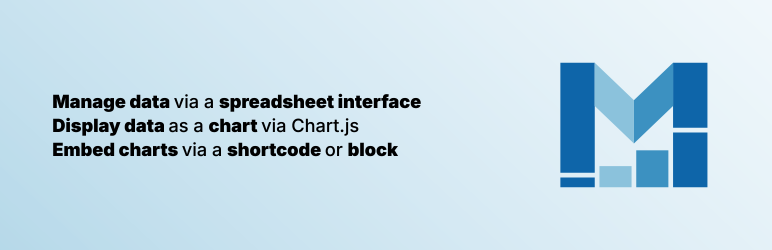
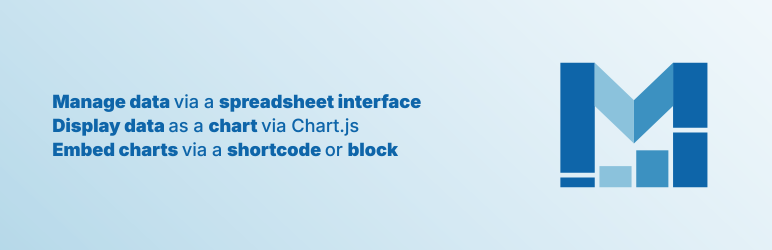
Misc - Asset tweaks - Plus a small fix for an issue the title/subtitle text wrapping had introduced to the Chart Editor

Changed region(s): [[0.0622, 0.476, 0.5285, 0.644], [0.0622, 0.364, 0.5596, 0.448]]

diff --git a/components/js/m-chart-chartjs-helper.min.js b/components/js/m-chart-chartjs-helper.min.js
@@ -1,1 +1,1 @@
-"use strict";function numberFormat(number,locale){return Chart.helpers.formatNumber(number,locale)}function safeNumberFormat(value,locale){const num=Number(value);return Number.isFinite(num)?numberFormat(num,locale):""}function isMChartChart(chart){const opts=chart.options?.plugins?.["m-chart-helper"];return!!opts&&undefined!==opts.labels_pos}function axisName(chart,index){const scaleKey=["x","y"][index];const titleText=scaleKey&&chart.options?.scales?.[scaleKey]?.title?.text;if(titleText){return String(titleText)}const label=chart.data?.labels?.[index];return null==label?"":String(label)}function horizontalLayoutPadding(chart){const padding=chart.options?.layout?.padding;if("number"===typeof padding){return padding*2}if(padding&&"object"===typeof padding){const left=Number(padding.left??padding.x??0);const right=Number(padding.right??padding.x??0);return left+right}return 32}function preprocessBubbleData(data){const pixelMax=31;const pixelMin=1;const pixelRange=pixelMax-pixelMin;let valueRange=0;for(const ds of data.datasets){for(const val of ds.data){const v=Math.abs(val.original??val.r);if(v>valueRange){valueRange=v}}}if(0===valueRange){valueRange=1}for(const ds of data.datasets){const rawData=ds.rawData||[];const isStructured=Array.isArray(rawData[0]);ds.data.forEach((d,i)=>{const trueR=d.original??d.r;d.original=trueR;const rawR=isStructured?rawData[i]&&rawData[i][2]:rawData[i*3+2];d.originalPrefix=rawR&&rawR.prefix?rawR.prefix:"";d.originalSuffix=rawR&&rawR.suffix?rawR.suffix:"";const percentageRadius=Math.sqrt(Math.abs(trueR)/valueRange);d.r=percentageRadius*pixelRange+pixelMin})}return data}function bubbleChartTooltipLabel(item){const chart=item.chart;const locale=chart.options.locale;const lines=[];if(item.raw?.label){lines.push(item.raw.label)}lines.push(axisName(chart,0)+": "+safeNumberFormat(item.parsed.x,locale),axisName(chart,1)+": "+safeNumberFormat(item.parsed.y,locale),axisName(chart,2)+": "+safeNumberFormat(item.raw.original,locale));return lines}function scatterChartTooltipLabel(item){const chart=item.chart;const locale=chart.options.locale;const lines=[];if(item.raw?.label){lines.push(item.raw.label)}lines.push(axisName(chart,0)+": "+safeNumberFormat(item.parsed.x,locale),axisName(chart,1)+": "+safeNumberFormat(item.parsed.y,locale));return lines}function treemapRawEntry(ctxOrItem){const raw=ctxOrItem.raw;if(!raw){return null}return raw._data||raw}function treemapFormatValue(entry,locale){if(!entry){return""}if(null!=entry.text&&""!==entry.text){return entry.text}const value=Number.isFinite(entry.value)?entry.value:Number(entry.value);if(!Number.isFinite(value)){return""}return(entry.prefix||"")+numberFormat(value,locale)+(entry.suffix||"")}function treemapItemText(ctx){if("data"!==ctx.type){return""}const entry=treemapRawEntry(ctx);return entry&&entry.label?String(entry.label):""}function treemapTooltipLabel(item){const locale=item.chart.options.locale;const entry=treemapRawEntry(item);const label=entry&&entry.label?String(entry.label):"";const formatted=treemapFormatValue(entry,locale);if(label&&formatted){return label+": "+formatted}return formatted||label}function chartTooltipLabel(item){const chart=item.chart;const type=chart.config.type;const labelsPos=chart.options.plugins?.["m-chart-helper"]?.labels_pos??"";const locale=chart.options.locale;const datasetLabel=item.dataset.label;if(null==item.raw){return null}let name="";if("both"===labelsPos){if("bar"===type){name=datasetLabel||""}else if("polarArea"===type){const category=chart.data.labels[item.dataIndex];name=undefined!==datasetLabel&&category!==datasetLabel?String(category)+datasetLabel:String(category)}else{name=undefined!==datasetLabel?datasetLabel:item.label}}else if(undefined!==datasetLabel&&""!==datasetLabel){name=datasetLabel}const prefix=name?name+": ":"";const raw=item.dataset.rawData&&item.dataset.rawData[item.dataIndex];let rawValue;if(raw&&null!==raw.value){rawValue=(raw.prefix||"")+numberFormat(raw.value,locale)+(raw.suffix||"")}else if(raw&&raw.text){rawValue=raw.text}else{rawValue=numberFormat(item.raw,locale)}return prefix+rawValue}function computeBoxplotViolinYBounds(data){let dataMin=Infinity;let dataMax=-Infinity;for(const dataset of data.datasets??[]){for(const row of dataset.data??[]){if(!Array.isArray(row)){continue}for(const value of row){const num=Number(value);if(Number.isFinite(num)){if(num<dataMin){dataMin=num}if(num>dataMax){dataMax=num}}}}}if(!Number.isFinite(dataMin)||!Number.isFinite(dataMax)){return null}const range=dataMax-dataMin;if(0===range){return null}const grace=range*.05;return{min:dataMin-grace,max:dataMax+grace}}function wrapPluginText(chart,key,maxWidth,originalProp){const opt=chart.options.plugins?.[key];if(!opt||false===opt.display){return}if(!chart[originalProp]){chart[originalProp]=Array.isArray(opt.text)?opt.text.join(" "):opt.text||""}const original=chart[originalProp];if(!original){return}const defaultSize="title"===key?21:18;const fontSize=opt.font?.size||defaultSize;const family=opt.font?.family||window.Chart&&window.Chart.defaults?.font?.family||"sans-serif";const weight=opt.font?.weight||"";chart.ctx.save();chart.ctx.font=(weight?weight+" ":"")+fontSize+"px "+family;if(chart.ctx.measureText(original).width<=maxWidth){chart.options.plugins[key].text=original;chart.ctx.restore();return}const words=original.split(/\s+/).filter(Boolean);const lines=[];let line="";for(const word of words){const trial=line?line+" "+word:word;if(chart.ctx.measureText(trial).width<=maxWidth){line=trial}else{if(line){lines.push(line)}line=word}}if(line){lines.push(line)}chart.options.plugins[key].text=lines.length>1?lines:original;chart.ctx.restore()}function wireTreemap(chart){const ds=chart.data.datasets[0];const locale=chart.options.locale;if(ds&&ds.mChartTreemapHierarchical){const topColors=ds.mChartTopGroupColors||{};const topRgb=ds.mChartTopGroupRgb||{};const topField=ds.mChartTopGroupField;const groups=ds.groups||[];const leafLevel=Math.max(0,groups.length-1);const groupBaseAlpha=.06;const groupStepPerLevel=.06;const hoverAlphaBump=.06;const leafHoverBump=.18;const colorFor=(raw,active)=>{const topId=0===raw.l?raw.g:raw._data&&raw._data[topField];const rgb=topRgb[topId];if(!rgb){return topColors[topId]||"rgba(160,160,160,0.5)"}if(raw.l<leafLevel){const restAlpha=groupBaseAlpha+raw.l*groupStepPerLevel;const alpha=active?Math.min(1,restAlpha+hoverAlphaBump):restAlpha;return`rgba(${rgb.red}, ${rgb.green}, ${rgb.blue}, ${alpha.toFixed(3)})`}const denom=raw.gs||raw.s||raw.v||1;const ratio=raw.v/denom;const baseAlpha=Math.max(.35,Math.min(1,ratio+.35));const finalA=active?Math.min(1,baseAlpha+leafHoverBump):baseAlpha;return`rgba(${rgb.red}, ${rgb.green}, ${rgb.blue}, ${finalA.toFixed(3)})`};ds.backgroundColor=ctx=>{if("data"!==ctx.type){return"transparent"}return colorFor(ctx.raw,false)};ds.hoverBackgroundColor=ctx=>{if("data"!==ctx.type){return"transparent"}return colorFor(ctx.raw,true)};const datasetPrefix=ds.mChartDatasetPrefix||"";const datasetSuffix=ds.mChartDatasetSuffix||"";const formatWithAffixes=raw=>{const isLeaf=raw.l>=leafLevel;const leafRaw=isLeaf?raw._data||{}:null;const prefix=isLeaf?leafRaw.prefix||datasetPrefix:datasetPrefix;const suffix=isLeaf?leafRaw.suffix||datasetSuffix:datasetSuffix;return prefix+numberFormat(raw.v,locale)+suffix};ds.captions=ds.captions||{};ds.captions.formatter=ctx=>{if("data"!==ctx.type||ctx.raw.l>=leafLevel){return""}return ctx.raw.g+": "+formatWithAffixes(ctx.raw)};ds.labels=ds.labels||{};ds.labels.formatter=ctx=>{if("data"!==ctx.type||ctx.raw.l<leafLevel){return""}return String(ctx.raw.g)};chart.options.plugins.tooltip.callbacks={title:()=>"",label:item=>String(item.raw.g)+": "+formatWithAffixes(item.raw)};return}if(ds&&Array.isArray(ds.mChartColors)){const colors=ds.mChartColors;ds.backgroundColor=ctx=>{if("data"!==ctx.type){return"transparent"}return colors[ctx.dataIndex]||colors[0]}}if(ds){ds.labels=ds.labels||{};ds.labels.formatter=ctx=>treemapItemText(ctx)}chart.options.plugins.tooltip.callbacks={title:()=>"",label:item=>treemapTooltipLabel(item)}}function wireBoxplotViolin(chart){const locale=chart.options.locale;const fmtForItem=(item,value)=>{if(value===null||value===undefined||!Number.isFinite(value)){return""}const itemDs=item&&item.dataset?item.dataset:{};const prefix=itemDs.mChartDatasetPrefix||"";const suffix=itemDs.mChartDatasetSuffix||"";return prefix+numberFormat(value,locale)+suffix};chart.options.plugins.tooltip.callbacks={title:items=>items&&items.length&&items[0].label?String(items[0].label):"",label:item=>{const fv=item.formattedValue;const stats=fv&&"object"===typeof fv&&fv.raw?fv.raw:item.parsed||{};const lines=[];if(item.dataset&&item.dataset.label){lines.push(String(item.dataset.label))}lines.push("Min: "+fmtForItem(item,stats.min));lines.push("Q1: "+fmtForItem(item,stats.q1));lines.push("Median: "+fmtForItem(item,stats.median));lines.push("Q3: "+fmtForItem(item,stats.q3));lines.push("Max: "+fmtForItem(item,stats.max));const outliers=Array.isArray(stats.outliers)?stats.outliers.length:0;if(outliers>0){lines.push("+ "+outliers+" outlier"+(1===outliers?"":"s"))}return lines}}}const MChartHelper={id:"m-chart-helper",beforeLayout(chart){if(!isMChartChart(chart)){return}if(!chart.ctx||!chart.width){return}const maxWidth=chart.width-horizontalLayoutPadding(chart);wrapPluginText(chart,"title",maxWidth,"$mchartTitleOriginal");wrapPluginText(chart,"subtitle",maxWidth,"$mchartSubtitleOriginal")},beforeUpdate(chart){if(!isMChartChart(chart)){return}const type=chart.config.type;if("bubble"===type){if(chart.$mchartBubbleData!==chart.config.data){preprocessBubbleData(chart.config.data);chart.$mchartBubbleData=chart.config.data}chart.options.plugins.tooltip.callbacks={title:items=>items[0]?.dataset?.label??"",label:item=>bubbleChartTooltipLabel(item)}}else if("scatter"===type){chart.options.plugins.tooltip.callbacks={title:items=>items[0]?.dataset?.label??"",label:item=>scatterChartTooltipLabel(item)}}else if("treemap"===type){wireTreemap(chart);return}else if("boxplot"===type||"violin"===type){wireBoxplotViolin(chart);return}else{chart.options.plugins.tooltip.callbacks={label:item=>chartTooltipLabel(item)}}chart.options.plugins.datalabels.formatter=function(label,context){const locale=chart.options.locale;const rawData=context.dataset.rawData;const dataIndex=context.dataIndex;if(null===label){return label}if("bubble"===type){const prefix=label.originalPrefix||"";const suffix=label.originalSuffix||"";const value=safeNumberFormat(label.original,locale);return value?prefix+value+suffix:""}if("scatter"===type){const rawEntry=rawData&&rawData[dataIndex];let rawY;if(Array.isArray(rawEntry)){rawY=rawEntry[1]}else{rawY=rawData&&rawData[dataIndex*2+1]}if(rawY&&null!==rawY.value){return(rawY.prefix||"")+numberFormat(rawY.value,locale)+(rawY.suffix||"")}if(rawY&&rawY.text){return rawY.text}return safeNumberFormat(label.y,locale)}const raw=rawData&&rawData[dataIndex];if(raw&&null!==raw.value){return(raw.prefix||"")+numberFormat(raw.value,locale)+(raw.suffix||"")}if(raw&&raw.text){return raw.text}if(Number.isFinite(Number(label))){return numberFormat(label,locale)}return label}},afterDataLimits(chart,args){if(!isMChartChart(chart)){return}const type=chart.config.type;if("boxplot"!==type&&"violin"!==type){return}if(!chart.options.plugins?.mchart?.constrain_y_axis){return}if("y"!==args.scale.axis){return}const bounds=computeBoxplotViolinYBounds(chart.config.data);if(!bounds){return}args.scale.min=bounds.min;args.scale.max=bounds.max},afterDraw(chart){if(!isMChartChart(chart)){return}const opts=chart.options.plugins?.mchart;if(!opts?.include_source||!opts?.source){chart.$mchartSourceBounds=null;return}const ctx=chart.ctx;const text=String(opts.source);const useOverride=!!opts.overrideFont;const overrideFont=opts.font||{};const position=opts.position||{};const defaultFamily=window.Chart&&window.Chart.defaults?.font?.family||"sans-serif";const defaultColor=window.Chart&&window.Chart.defaults?.color||"#666666";const family=useOverride&&overrideFont.family?overrideFont.family:defaultFamily;const size=useOverride&&overrideFont.size?Number(overrideFont.size):12;const weight=useOverride&&overrideFont.weight?overrideFont.weight:"normal";const style=useOverride&&overrideFont.style?overrideFont.style:"normal";const color=useOverride&&overrideFont.color?overrideFont.color:defaultColor;ctx.save();ctx.font=`${style} ${weight} ${size}px ${family}`;ctx.fillStyle=color;ctx.textAlign="left";ctx.textBaseline="top";const metrics=ctx.measureText(text);const blockW=metrics.width;const blockH=size;const xKey=position.x||"left";const yKey=position.y||"bottom";const xUnits=position.xOffsetUnits||position.units||"pixels";const yUnits=position.yOffsetUnits||position.units||"pixels";const xRaw=position.xOffset===undefined||position.xOffset===null||position.xOffset===""?12:Number(position.xOffset);const yRaw=position.yOffset===undefined||position.yOffset===null||position.yOffset===""?12:Number(position.yOffset);const xOffset="percent"===xUnits?chart.width*(xRaw/100):xRaw;const yOffset="percent"===yUnits?chart.height*(yRaw/100):yRaw;let drawX;if("right"===xKey){drawX=chart.width-blockW-xOffset}else if("center"===xKey){drawX=(chart.width-blockW)/2}else{drawX=xOffset}let drawY;if("top"===yKey){drawY=yOffset}else if("center"===yKey){drawY=(chart.height-blockH)/2}else{drawY=chart.height-blockH-yOffset}ctx.fillText(text,drawX,drawY);chart.$mchartSourceBounds={left:drawX-2,right:drawX+blockW+2,top:drawY-2,bottom:drawY+blockH+2};ctx.restore()},afterEvent(chart,args){if(!isMChartChart(chart)){return}const opts=chart.options.plugins?.mchart;const bounds=chart.$mchartSourceBounds;if(!opts?.include_source||!opts?.source||!opts?.source_url||!bounds){if(chart.canvas&&"pointer"===chart.canvas.style.cursor){chart.canvas.style.cursor=""}return}const e=args.event;if(!e){return}if("mouseout"===e.type){if(chart.canvas&&"pointer"===chart.canvas.style.cursor){chart.canvas.style.cursor=""}return}if("number"!==typeof e.x||"number"!==typeof e.y){return}const inside=e.x>=bounds.left&&e.x<=bounds.right&&e.y>=bounds.top&&e.y<=bounds.bottom;if("mousemove"===e.type){chart.canvas.style.cursor=inside?"pointer":""}else if("click"===e.type&&inside){const opened=window.open(opts.source_url,"_blank","noopener,noreferrer");if(opened){opened.opener=null}}}};window.MChartHelper=MChartHelper;
+"use strict";function numberFormat(number,locale){return Chart.helpers.formatNumber(number,locale)}function safeNumberFormat(value,locale){const num=Number(value);return Number.isFinite(num)?numberFormat(num,locale):""}function isMChartChart(chart){const opts=chart.options?.plugins?.["m-chart-helper"];return!!opts&&undefined!==opts.labels_pos}function axisName(chart,index){const scaleKey=["x","y"][index];const titleText=scaleKey&&chart.options?.scales?.[scaleKey]?.title?.text;if(titleText){return String(titleText)}const label=chart.data?.labels?.[index];return null==label?"":String(label)}function horizontalLayoutPadding(chart){const padding=chart.options?.layout?.padding;if("number"===typeof padding){return padding*2}if(padding&&"object"===typeof padding){const left=Number(padding.left??padding.x??0);const right=Number(padding.right??padding.x??0);return left+right}return 32}function preprocessBubbleData(data){const pixelMax=31;const pixelMin=1;const pixelRange=pixelMax-pixelMin;let valueRange=0;for(const ds of data.datasets){for(const val of ds.data){const v=Math.abs(val.original??val.r);if(v>valueRange){valueRange=v}}}if(0===valueRange){valueRange=1}for(const ds of data.datasets){const rawData=ds.rawData||[];const isStructured=Array.isArray(rawData[0]);ds.data.forEach((d,i)=>{const trueR=d.original??d.r;d.original=trueR;const rawR=isStructured?rawData[i]&&rawData[i][2]:rawData[i*3+2];d.originalPrefix=rawR&&rawR.prefix?rawR.prefix:"";d.originalSuffix=rawR&&rawR.suffix?rawR.suffix:"";const percentageRadius=Math.sqrt(Math.abs(trueR)/valueRange);d.r=percentageRadius*pixelRange+pixelMin})}return data}function bubbleChartTooltipLabel(item){const chart=item.chart;const locale=chart.options.locale;const lines=[];if(item.raw?.label){lines.push(item.raw.label)}lines.push(axisName(chart,0)+": "+safeNumberFormat(item.parsed.x,locale),axisName(chart,1)+": "+safeNumberFormat(item.parsed.y,locale),axisName(chart,2)+": "+safeNumberFormat(item.raw.original,locale));return lines}function scatterChartTooltipLabel(item){const chart=item.chart;const locale=chart.options.locale;const lines=[];if(item.raw?.label){lines.push(item.raw.label)}lines.push(axisName(chart,0)+": "+safeNumberFormat(item.parsed.x,locale),axisName(chart,1)+": "+safeNumberFormat(item.parsed.y,locale));return lines}function treemapRawEntry(ctxOrItem){const raw=ctxOrItem.raw;if(!raw){return null}return raw._data||raw}function treemapFormatValue(entry,locale){if(!entry){return""}if(null!=entry.text&&""!==entry.text){return entry.text}const value=Number.isFinite(entry.value)?entry.value:Number(entry.value);if(!Number.isFinite(value)){return""}return(entry.prefix||"")+numberFormat(value,locale)+(entry.suffix||"")}function treemapItemText(ctx){if("data"!==ctx.type){return""}const entry=treemapRawEntry(ctx);return entry&&entry.label?String(entry.label):""}function treemapTooltipLabel(item){const locale=item.chart.options.locale;const entry=treemapRawEntry(item);const label=entry&&entry.label?String(entry.label):"";const formatted=treemapFormatValue(entry,locale);if(label&&formatted){return label+": "+formatted}return formatted||label}function chartTooltipLabel(item){const chart=item.chart;const type=chart.config.type;const labelsPos=chart.options.plugins?.["m-chart-helper"]?.labels_pos??"";const locale=chart.options.locale;const datasetLabel=item.dataset.label;if(null==item.raw){return null}let name="";if("both"===labelsPos){if("bar"===type){name=datasetLabel||""}else if("polarArea"===type){const category=chart.data.labels[item.dataIndex];name=undefined!==datasetLabel&&category!==datasetLabel?String(category)+datasetLabel:String(category)}else{name=undefined!==datasetLabel?datasetLabel:item.label}}else if(undefined!==datasetLabel&&""!==datasetLabel){name=datasetLabel}const prefix=name?name+": ":"";const raw=item.dataset.rawData&&item.dataset.rawData[item.dataIndex];let rawValue;if(raw&&null!==raw.value){rawValue=(raw.prefix||"")+numberFormat(raw.value,locale)+(raw.suffix||"")}else if(raw&&raw.text){rawValue=raw.text}else{rawValue=numberFormat(item.raw,locale)}return prefix+rawValue}function computeBoxplotViolinYBounds(data){let dataMin=Infinity;let dataMax=-Infinity;for(const dataset of data.datasets??[]){for(const row of dataset.data??[]){if(!Array.isArray(row)){continue}for(const value of row){const num=Number(value);if(Number.isFinite(num)){if(num<dataMin){dataMin=num}if(num>dataMax){dataMax=num}}}}}if(!Number.isFinite(dataMin)||!Number.isFinite(dataMax)){return null}const range=dataMax-dataMin;if(0===range){return null}const grace=range*.05;return{min:dataMin-grace,max:dataMax+grace}}function wrapPluginText(chart,key,maxWidth,originalProp){const opt=chart.options.plugins?.[key];if(!opt||false===opt.display){return}if(!chart[originalProp]||!Array.isArray(opt.text)&&opt.text!==chart[originalProp]){chart[originalProp]=Array.isArray(opt.text)?opt.text.join(" "):opt.text||""}const original=chart[originalProp];if(!original){return}const defaultSize="title"===key?21:18;const fontSize=opt.font?.size||defaultSize;const family=opt.font?.family||window.Chart&&window.Chart.defaults?.font?.family||"sans-serif";const weight=opt.font?.weight||"";chart.ctx.save();chart.ctx.font=(weight?weight+" ":"")+fontSize+"px "+family;if(chart.ctx.measureText(original).width<=maxWidth){chart.options.plugins[key].text=original;chart.ctx.restore();return}const words=original.split(/\s+/).filter(Boolean);const lines=[];let line="";for(const word of words){const trial=line?line+" "+word:word;if(chart.ctx.measureText(trial).width<=maxWidth){line=trial}else{if(line){lines.push(line)}line=word}}if(line){lines.push(line)}chart.options.plugins[key].text=lines.length>1?lines:original;chart.ctx.restore()}function wireTreemap(chart){const ds=chart.data.datasets[0];const locale=chart.options.locale;if(ds&&ds.mChartTreemapHierarchical){const topColors=ds.mChartTopGroupColors||{};const topRgb=ds.mChartTopGroupRgb||{};const topField=ds.mChartTopGroupField;const groups=ds.groups||[];const leafLevel=Math.max(0,groups.length-1);const groupBaseAlpha=.06;const groupStepPerLevel=.06;const hoverAlphaBump=.06;const leafHoverBump=.18;const colorFor=(raw,active)=>{const topId=0===raw.l?raw.g:raw._data&&raw._data[topField];const rgb=topRgb[topId];if(!rgb){return topColors[topId]||"rgba(160,160,160,0.5)"}if(raw.l<leafLevel){const restAlpha=groupBaseAlpha+raw.l*groupStepPerLevel;const alpha=active?Math.min(1,restAlpha+hoverAlphaBump):restAlpha;return`rgba(${rgb.red}, ${rgb.green}, ${rgb.blue}, ${alpha.toFixed(3)})`}const denom=raw.gs||raw.s||raw.v||1;const ratio=raw.v/denom;const baseAlpha=Math.max(.35,Math.min(1,ratio+.35));const finalA=active?Math.min(1,baseAlpha+leafHoverBump):baseAlpha;return`rgba(${rgb.red}, ${rgb.green}, ${rgb.blue}, ${finalA.toFixed(3)})`};ds.backgroundColor=ctx=>{if("data"!==ctx.type){return"transparent"}return colorFor(ctx.raw,false)};ds.hoverBackgroundColor=ctx=>{if("data"!==ctx.type){return"transparent"}return colorFor(ctx.raw,true)};const datasetPrefix=ds.mChartDatasetPrefix||"";const datasetSuffix=ds.mChartDatasetSuffix||"";const formatWithAffixes=raw=>{const isLeaf=raw.l>=leafLevel;const leafRaw=isLeaf?raw._data||{}:null;const prefix=isLeaf?leafRaw.prefix||datasetPrefix:datasetPrefix;const suffix=isLeaf?leafRaw.suffix||datasetSuffix:datasetSuffix;return prefix+numberFormat(raw.v,locale)+suffix};ds.captions=ds.captions||{};ds.captions.formatter=ctx=>{if("data"!==ctx.type||ctx.raw.l>=leafLevel){return""}return ctx.raw.g+": "+formatWithAffixes(ctx.raw)};ds.labels=ds.labels||{};ds.labels.formatter=ctx=>{if("data"!==ctx.type||ctx.raw.l<leafLevel){return""}return String(ctx.raw.g)};chart.options.plugins.tooltip.callbacks={title:()=>"",label:item=>String(item.raw.g)+": "+formatWithAffixes(item.raw)};return}if(ds&&Array.isArray(ds.mChartColors)){const colors=ds.mChartColors;ds.backgroundColor=ctx=>{if("data"!==ctx.type){return"transparent"}return colors[ctx.dataIndex]||colors[0]}}if(ds){ds.labels=ds.labels||{};ds.labels.formatter=ctx=>treemapItemText(ctx)}chart.options.plugins.tooltip.callbacks={title:()=>"",label:item=>treemapTooltipLabel(item)}}function wireBoxplotViolin(chart){const locale=chart.options.locale;const fmtForItem=(item,value)=>{if(value===null||value===undefined||!Number.isFinite(value)){return""}const itemDs=item&&item.dataset?item.dataset:{};const prefix=itemDs.mChartDatasetPrefix||"";const suffix=itemDs.mChartDatasetSuffix||"";return prefix+numberFormat(value,locale)+suffix};chart.options.plugins.tooltip.callbacks={title:items=>items&&items.length&&items[0].label?String(items[0].label):"",label:item=>{const fv=item.formattedValue;const stats=fv&&"object"===typeof fv&&fv.raw?fv.raw:item.parsed||{};const lines=[];if(item.dataset&&item.dataset.label){lines.push(String(item.dataset.label))}lines.push("Min: "+fmtForItem(item,stats.min));lines.push("Q1: "+fmtForItem(item,stats.q1));lines.push("Median: "+fmtForItem(item,stats.median));lines.push("Q3: "+fmtForItem(item,stats.q3));lines.push("Max: "+fmtForItem(item,stats.max));const outliers=Array.isArray(stats.outliers)?stats.outliers.length:0;if(outliers>0){lines.push("+ "+outliers+" outlier"+(1===outliers?"":"s"))}return lines}}}const MChartHelper={id:"m-chart-helper",beforeLayout(chart){if(!isMChartChart(chart)){return}if(!chart.ctx||!chart.width){return}const maxWidth=chart.width-horizontalLayoutPadding(chart);wrapPluginText(chart,"title",maxWidth,"$mchartTitleOriginal");wrapPluginText(chart,"subtitle",maxWidth,"$mchartSubtitleOriginal")},beforeUpdate(chart){if(!isMChartChart(chart)){return}const type=chart.config.type;if("bubble"===type){if(chart.$mchartBubbleData!==chart.config.data){preprocessBubbleData(chart.config.data);chart.$mchartBubbleData=chart.config.data}chart.options.plugins.tooltip.callbacks={title:items=>items[0]?.dataset?.label??"",label:item=>bubbleChartTooltipLabel(item)}}else if("scatter"===type){chart.options.plugins.tooltip.callbacks={title:items=>items[0]?.dataset?.label??"",label:item=>scatterChartTooltipLabel(item)}}else if("treemap"===type){wireTreemap(chart);return}else if("boxplot"===type||"violin"===type){wireBoxplotViolin(chart);return}else{chart.options.plugins.tooltip.callbacks={label:item=>chartTooltipLabel(item)}}chart.options.plugins.datalabels.formatter=function(label,context){const locale=chart.options.locale;const rawData=context.dataset.rawData;const dataIndex=context.dataIndex;if(null===label){return label}if("bubble"===type){const prefix=label.originalPrefix||"";const suffix=label.originalSuffix||"";const value=safeNumberFormat(label.original,locale);return value?prefix+value+suffix:""}if("scatter"===type){const rawEntry=rawData&&rawData[dataIndex];let rawY;if(Array.isArray(rawEntry)){rawY=rawEntry[1]}else{rawY=rawData&&rawData[dataIndex*2+1]}if(rawY&&null!==rawY.value){return(rawY.prefix||"")+numberFormat(rawY.value,locale)+(rawY.suffix||"")}if(rawY&&rawY.text){return rawY.text}return safeNumberFormat(label.y,locale)}const raw=rawData&&rawData[dataIndex];if(raw&&null!==raw.value){return(raw.prefix||"")+numberFormat(raw.value,locale)+(raw.suffix||"")}if(raw&&raw.text){return raw.text}if(Number.isFinite(Number(label))){return numberFormat(label,locale)}return label}},afterDataLimits(chart,args){if(!isMChartChart(chart)){return}const type=chart.config.type;if("boxplot"!==type&&"violin"!==type){return}if(!chart.options.plugins?.mchart?.constrain_y_axis){return}if("y"!==args.scale.axis){return}const bounds=computeBoxplotViolinYBounds(chart.config.data);if(!bounds){return}args.scale.min=bounds.min;args.scale.max=bounds.max},afterDraw(chart){if(!isMChartChart(chart)){return}const opts=chart.options.plugins?.mchart;if(!opts?.include_source||!opts?.source){chart.$mchartSourceBounds=null;return}const ctx=chart.ctx;const text=String(opts.source);const useOverride=!!opts.overrideFont;const overrideFont=opts.font||{};const position=opts.position||{};const defaultFamily=window.Chart&&window.Chart.defaults?.font?.family||"sans-serif";const defaultColor=window.Chart&&window.Chart.defaults?.color||"#666666";const family=useOverride&&overrideFont.family?overrideFont.family:defaultFamily;const size=useOverride&&overrideFont.size?Number(overrideFont.size):12;const weight=useOverride&&overrideFont.weight?overrideFont.weight:"normal";const style=useOverride&&overrideFont.style?overrideFont.style:"normal";const color=useOverride&&overrideFont.color?overrideFont.color:defaultColor;ctx.save();ctx.font=`${style} ${weight} ${size}px ${family}`;ctx.fillStyle=color;ctx.textAlign="left";ctx.textBaseline="top";const metrics=ctx.measureText(text);const blockW=metrics.width;const blockH=size;const xKey=position.x||"left";const yKey=position.y||"bottom";const xUnits=position.xOffsetUnits||position.units||"pixels";const yUnits=position.yOffsetUnits||position.units||"pixels";const xRaw=position.xOffset===undefined||position.xOffset===null||position.xOffset===""?12:Number(position.xOffset);const yRaw=position.yOffset===undefined||position.yOffset===null||position.yOffset===""?12:Number(position.yOffset);const xOffset="percent"===xUnits?chart.width*(xRaw/100):xRaw;const yOffset="percent"===yUnits?chart.height*(yRaw/100):yRaw;let drawX;if("right"===xKey){drawX=chart.width-blockW-xOffset}else if("center"===xKey){drawX=(chart.width-blockW)/2}else{drawX=xOffset}let drawY;if("top"===yKey){drawY=yOffset}else if("center"===yKey){drawY=(chart.height-blockH)/2}else{drawY=chart.height-blockH-yOffset}ctx.fillText(text,drawX,drawY);chart.$mchartSourceBounds={left:drawX-2,right:drawX+blockW+2,top:drawY-2,bottom:drawY+blockH+2};ctx.restore()},afterEvent(chart,args){if(!isMChartChart(chart)){return}const opts=chart.options.plugins?.mchart;const bounds=chart.$mchartSourceBounds;if(!opts?.include_source||!opts?.source||!opts?.source_url||!bounds){if(chart.canvas&&"pointer"===chart.canvas.style.cursor){chart.canvas.style.cursor=""}return}const e=args.event;if(!e){return}if("mouseout"===e.type){if(chart.canvas&&"pointer"===chart.canvas.style.cursor){chart.canvas.style.cursor=""}return}if("number"!==typeof e.x||"number"!==typeof e.y){return}const inside=e.x>=bounds.left&&e.x<=bounds.right&&e.y>=bounds.top&&e.y<=bounds.bottom;if("mousemove"===e.type){chart.canvas.style.cursor=inside?"pointer":""}else if("click"===e.type&&inside){const opened=window.open(opts.source_url,"_blank","noopener,noreferrer");if(opened){opened.opener=null}}}};window.MChartHelper=MChartHelper;

diff --git a/components/js/m-chart-chartjs-helper.js b/components/js/m-chart-chartjs-helper.js
@@ -412,8 +412,10 @@ function wrapPluginText( chart, key, maxWidth, originalProp ) {
 		return;
 	}
 
-	// First-touch: stash the original string so subsequent layouts wrap from the source
-	if ( ! chart[ originalProp ] ) {
+	// First-touch, or the source text changed, stash/re-stash the original so we wrap from the new source
+	// opt.text is a plain string for a fresh source; the wrap step below rewrites it to an array of lines
+	// So an array means this is a re-layout (resize) of already-wrapped text and the existing stash must stand
+	if ( ! chart[ originalProp ] || ( ! Array.isArray( opt.text ) && opt.text !== chart[ originalProp ] ) ) {
 		chart[ originalProp ] = Array.isArray( opt.text ) ? opt.text.join( ' ' ) : ( opt.text || '' );
 	}
 
